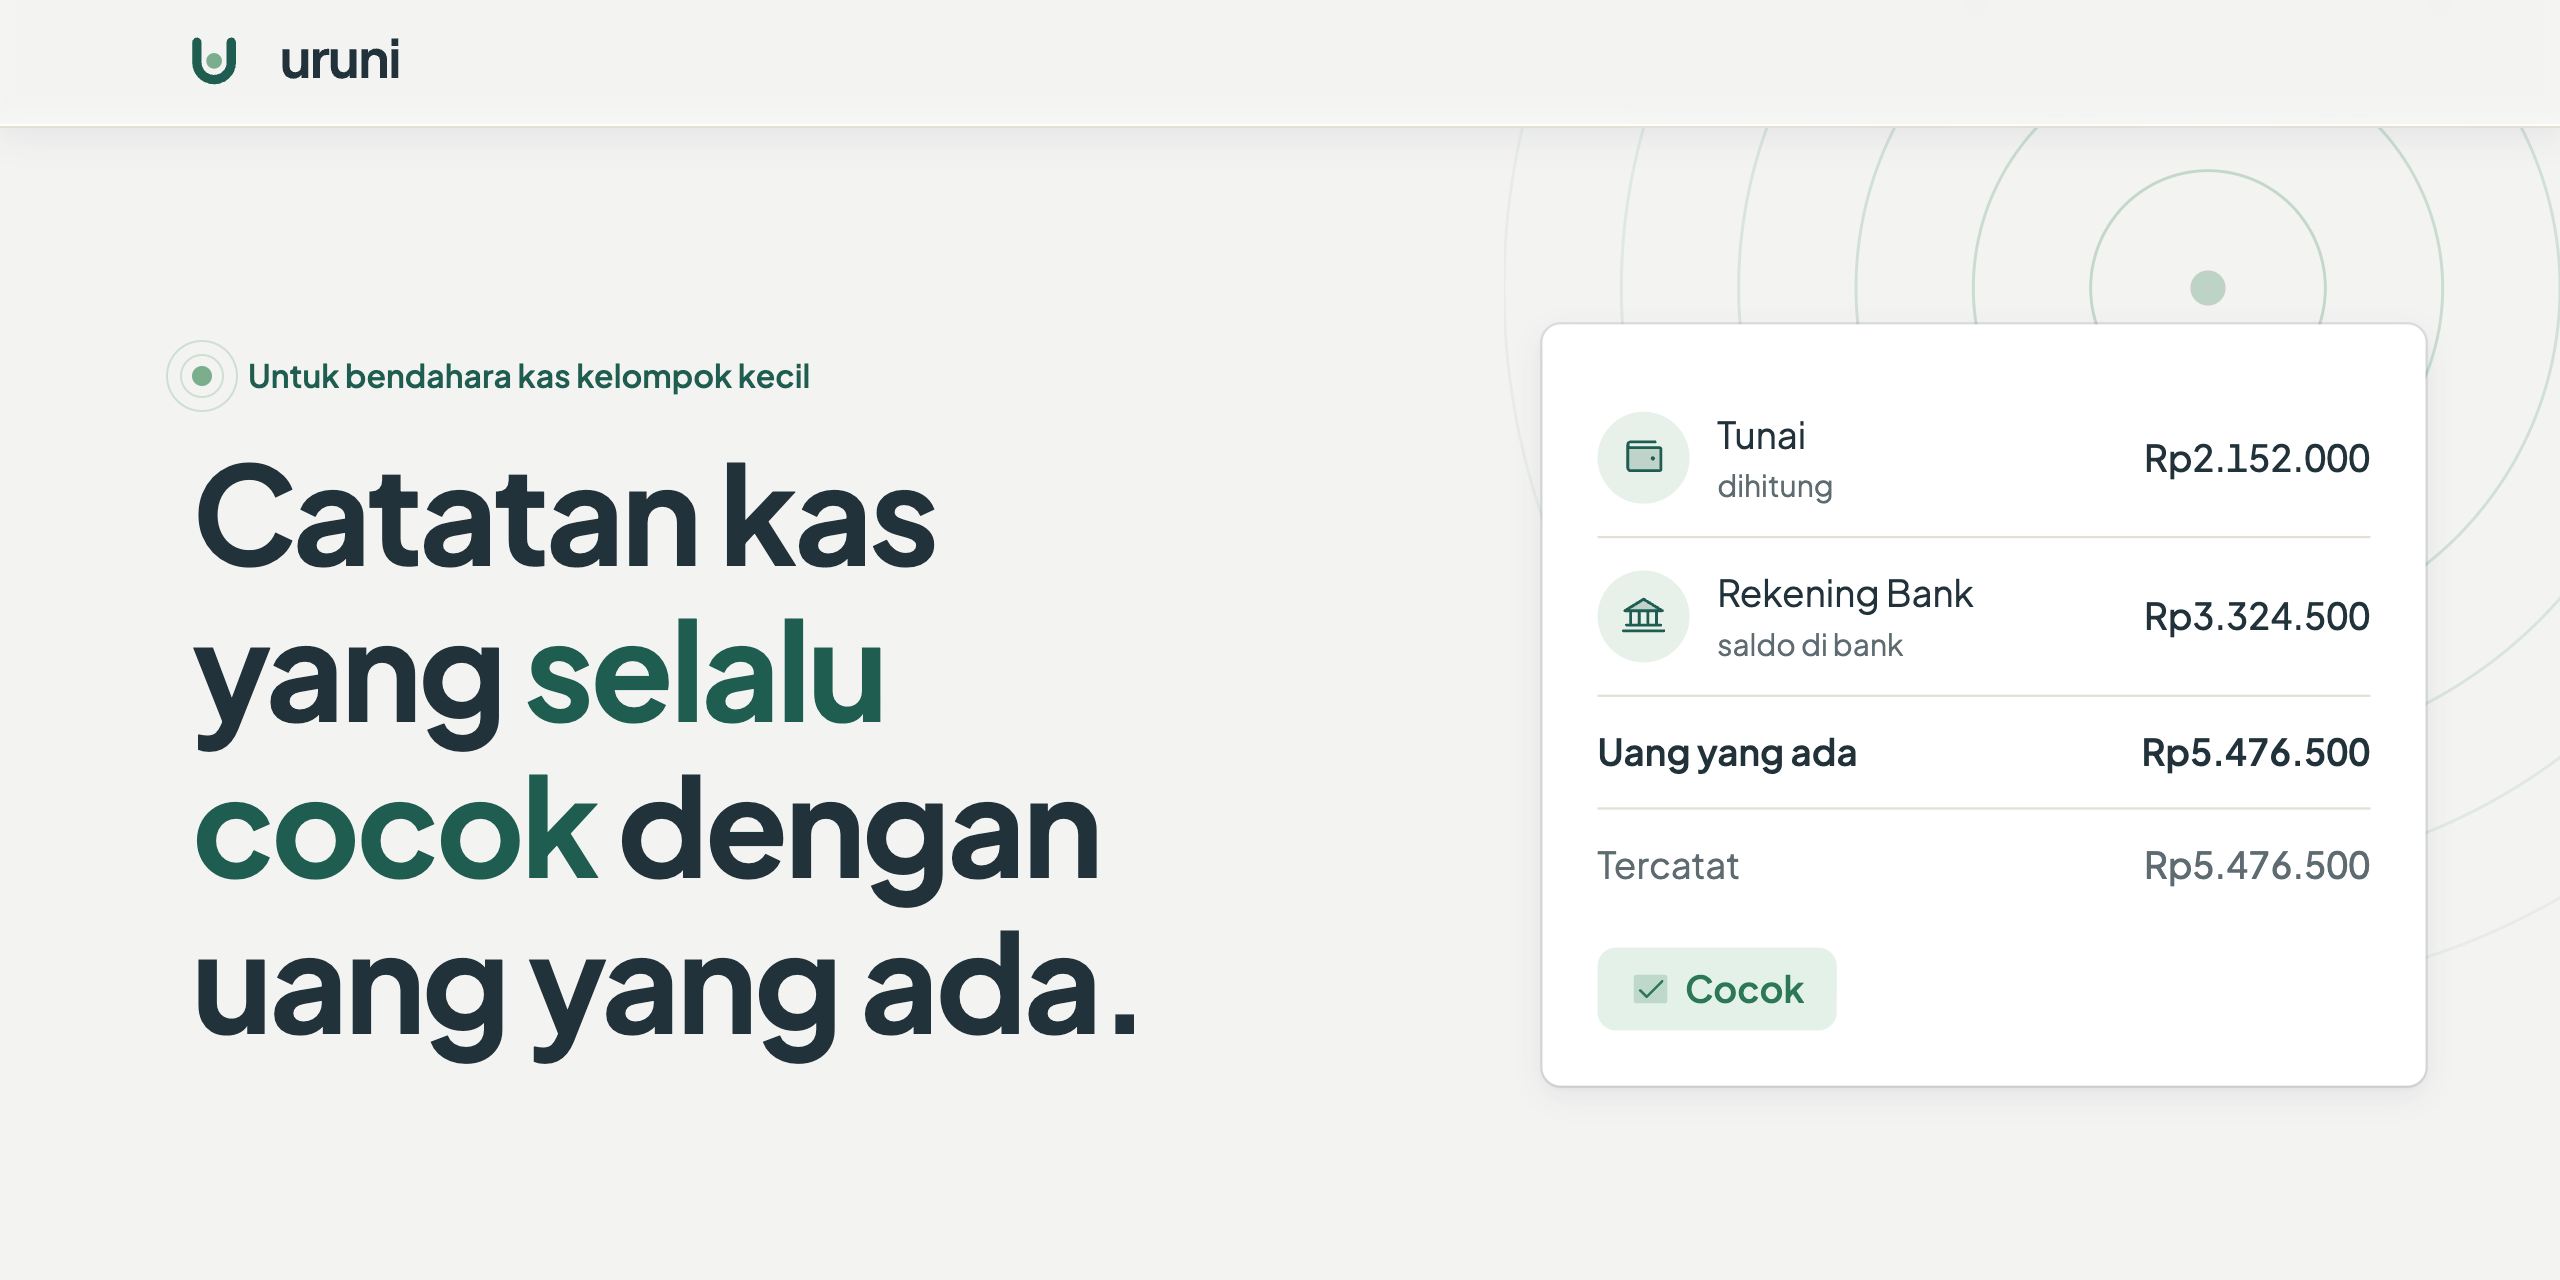
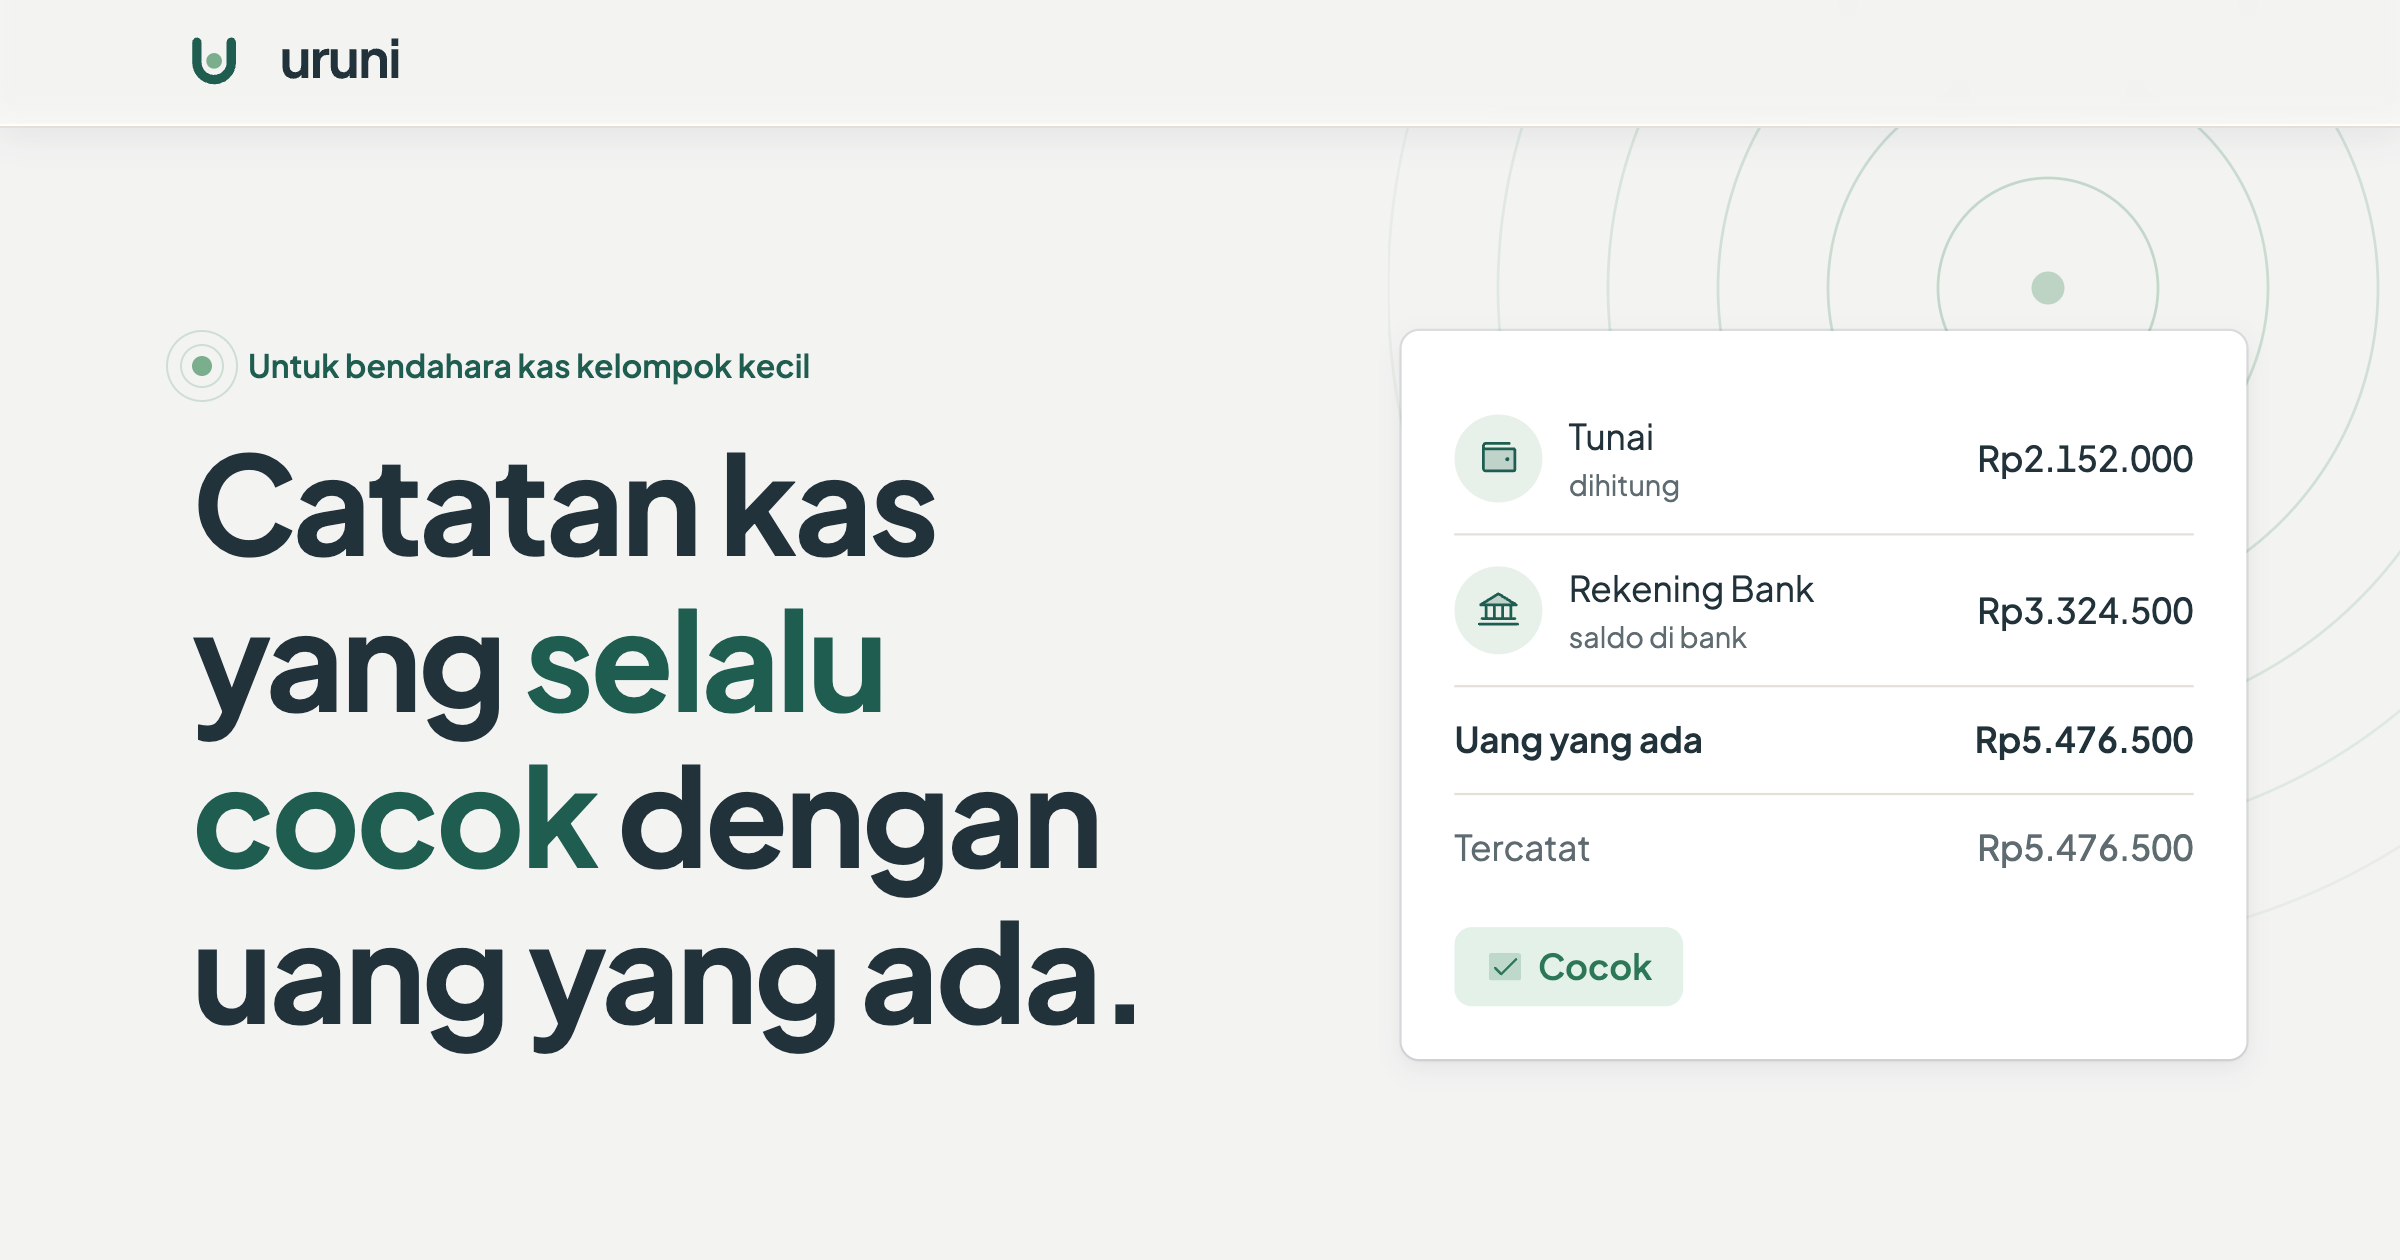
Share card at 1.91:1 (2400x1260)
opengraph.xyz warned that 2:1 gets cropped or letterboxed; previews expect
1200x630. Wider side margins, since some previews round or trim corners.

diff --git a/CONTEXT.md b/CONTEXT.md
@@ -68,7 +68,7 @@ server.
   and `docs/Design-System.md`), and the font (Plus Jakarta Sans via `@fontsource-variable`).
 - **Owned by the landing:** the share image, and compositional tokens built from the app's
   (header height, section padding, tints), kept in a separate block of the token file.
-- 2026-11-03: the share image (`public/og.png`, 2560x1280) is a still of the hero taken from the
+- 2026-11-03: the share image (`public/og.png`, 2400x1260, the 1.91:1 previews expect) is a still of the hero taken from the
   built page by `npm run og` (`scripts/og-image.mjs`): wordmark, eyebrow, H1 and the resting tally.
   Rerun it after any change to the hero; re-upload it by hand as the GitHub repository's social
   preview.
